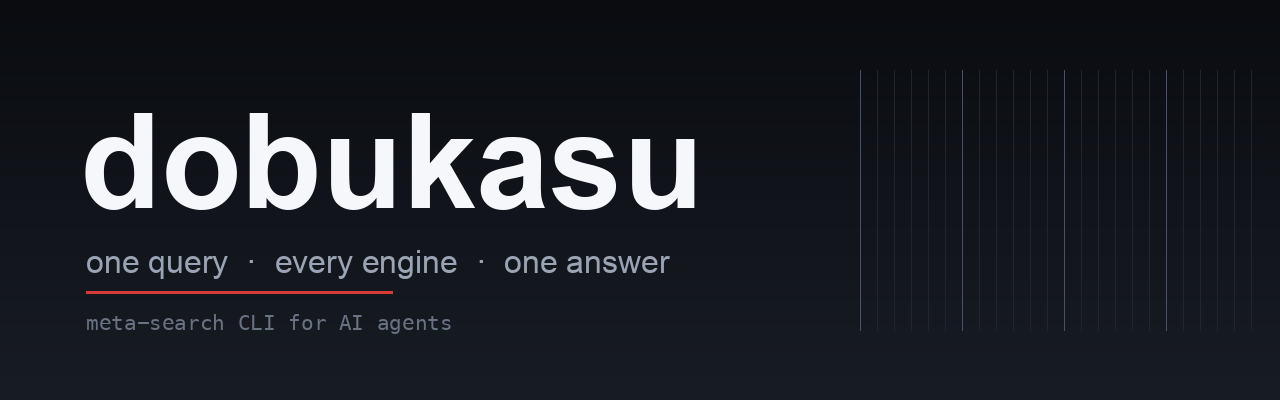
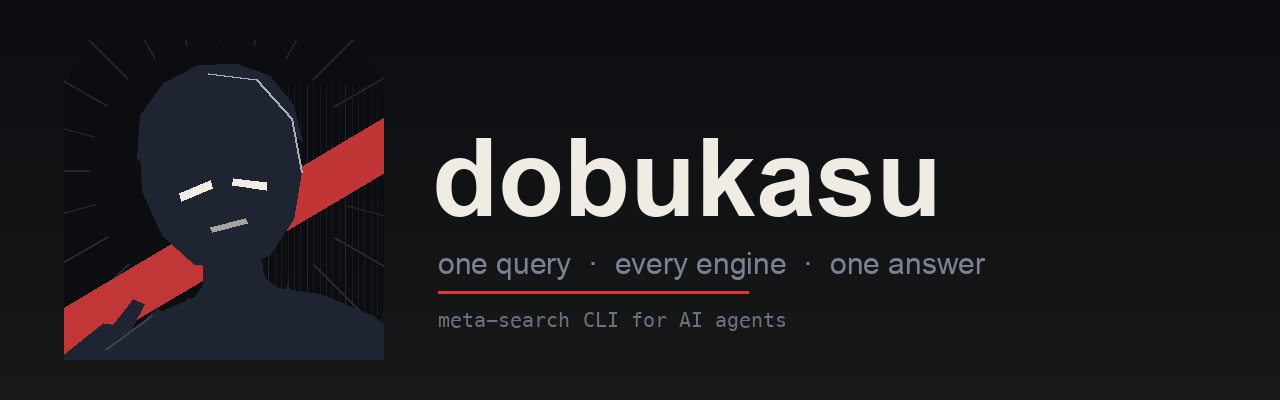
feat(assets): add an original mark and render it from source
The logo is a silhouette looking down, cut by a slash, over a grid of
frames: it borrows the composition (close-up, diagonal, destructive
background) and the mood, not any drawing. Every shape is generated by
assets/render.py, which writes both logo.svg and the PNGs, so the mark
can be adjusted by editing numbers rather than by redrawing art.

diff --git a/assets/render.py b/assets/render.py
@@ -1,0 +1,256 @@
+#!/usr/bin/env python3
+"""Render the dobukasu mark and banner.
+
+One shape description, two outputs: the SVG is the original (sharp at any
+size, diffable in git) and the PNG is what GitHub can show. Run it after
+changing the geometry:
+
+    python3 assets/render.py
+
+The mark is an original silhouette - a figure looking down, cut by a slash,
+over a grid of 24 frames. It borrows an idea, not any drawing: no character
+design, no copied pose, no traced line from someone else's picture.
+"""
+
+from __future__ import annotations
+
+import math
+from pathlib import Path
+
+from PIL import Image, ImageDraw, ImageFont
+
+HERE = Path(__file__).resolve().parent
+
+INK = (11, 13, 17)
+INK_SOFT = (18, 21, 28)
+FIGURE = (30, 36, 50)
+PAPER = (240, 236, 228)
+GREY = (120, 130, 148)
+RED = (216, 58, 58)
+RIM = (86, 96, 116)
+
+SIZE = 512
+
+
+def frame_lines(width: int, height: int, count: int = 24) -> list[tuple[tuple[int, int], tuple[int, int], int, int]]:
+    """The 'one second, twenty-four frames' motif: thin vertical rules."""
+    lines = []
+    span = count - 1
+    for index in range(count):
+        x = int(width * 0.52 + (width * 0.46) * index / span)
+        alpha = 44 if index % 6 == 0 else 15
+        lines.append(((x, int(height * 0.14)), (x, int(height * 0.86)), 1, alpha))
+    return lines
+
+
+def mark_shapes(size: int) -> dict[str, list]:
+    """Geometry of the mark, expressed in a 512 box and scaled by `size`.
+
+    Composition: tight on the face, tilted, a hand pushing into the frame from
+    below, a slash and a radial burst behind. Everything is a silhouette - the
+    eyes and mouth are the only light, and they are holes, not features.
+    """
+    s = size / SIZE
+
+    def p(x: float, y: float) -> tuple[int, int]:
+        # A slight counter-clockwise tilt keeps the face from feeling static.
+        angle = math.radians(-7)
+        cx, cy = 256, 256
+        dx, dy = x - cx, y - cy
+        rx = cx + dx * math.cos(angle) - dy * math.sin(angle)
+        ry = cy + dx * math.sin(angle) + dy * math.cos(angle)
+        return (round(rx * s), round(ry * s))
+
+    slash = [p(-30, 400), p(542, 150), p(542, 232), p(-30, 482)]
+
+    shoulders = [
+        p(-20, 540),
+        p(40, 470),
+        p(120, 424),
+        p(190, 404),
+        p(208, 386),
+        p(304, 386),
+        p(322, 404),
+        p(392, 424),
+        p(472, 470),
+        p(532, 540),
+    ]
+    neck = [p(212, 336), p(300, 336), p(306, 392), p(206, 392)]
+    head = [
+        p(256, 52),
+        p(330, 70),
+        p(378, 138),
+        p(384, 226),
+        p(362, 300),
+        p(316, 352),
+        p(256, 368),
+        p(196, 352),
+        p(150, 300),
+        p(128, 226),
+        p(134, 138),
+        p(182, 70),
+    ]
+    hair = [
+        p(126, 176),
+        p(140, 104),
+        p(182, 58),
+        p(240, 36),
+        p(300, 40),
+        p(352, 66),
+        p(384, 118),
+        p(392, 178),
+        p(352, 140),
+        p(306, 118),
+        p(256, 112),
+        p(206, 120),
+        p(162, 146),
+    ]
+    hand = [
+        p(-30, 470),
+        p(40, 428),
+        p(92, 442),
+        p(118, 476),
+        p(116, 540),
+        p(-30, 540),
+    ]
+    fingers = [
+        [p(46, 442), p(92, 396), p(108, 406), p(76, 452)],
+        [p(76, 452), p(128, 414), p(142, 426), p(102, 466)],
+        [p(100, 472), p(154, 448), p(162, 462), p(118, 490)],
+    ]
+    eyes = [
+        [p(186, 236), p(238, 222), p(240, 234), p(188, 249)],
+        [p(274, 222), p(326, 236), p(324, 249), p(272, 234)],
+    ]
+    mouth = [p(228, 296), p(286, 288), p(288, 297), p(230, 305)]
+
+    burst = []
+    for index in range(24):
+        angle = math.radians(index * 15 + 7)
+        inner, outer = 210, 460
+        burst.append(
+            (
+                p(256 + inner * math.cos(angle), 210 + inner * math.sin(angle)),
+                p(256 + outer * math.cos(angle), 210 + outer * math.sin(angle)),
+            )
+        )
+
+    return {
+        "slash": slash,
+        "burst": burst,
+        "shoulders": shoulders,
+        "neck": neck,
+        "head": head,
+        "hair": hair,
+        "hand": hand,
+        "fingers": fingers,
+        "eyes": eyes,
+        "mouth": mouth,
+    }
+
+
+def draw_mark(size: int, *, background: bool = True, with_slash: bool = True) -> Image.Image:
+    image = Image.new("RGBA", (size, size), (0, 0, 0, 0))
+    layer = Image.new("RGBA", (size, size), (0, 0, 0, 0))
+    draw = ImageDraw.Draw(layer)
+    shapes = mark_shapes(size)
+    s = size / SIZE
+
+    if background:
+        draw.rounded_rectangle([0, 0, size - 1, size - 1], radius=round(96 * s), fill=(*INK, 255))
+
+    for (x1, y1), (x2, y2), width, alpha in frame_lines(size, size):
+        draw.line([(x1, y1), (x2, y2)], fill=(*GREY, alpha), width=max(1, round(width * s)))
+
+    for (x1, y1), (x2, y2) in shapes["burst"]:
+        draw.line([(x1, y1), (x2, y2)], fill=(*GREY, 46), width=max(1, round(3 * s)))
+
+    if with_slash:
+        draw.polygon(shapes["slash"], fill=(*RED, 225))
+
+    body = (*FIGURE, 255)
+    for key in ("shoulders", "neck", "head", "hair", "hand"):
+        draw.polygon(shapes[key], fill=body)
+    for finger in shapes["fingers"]:
+        draw.polygon(finger, fill=body)
+
+    # Rim light on the left contour so the silhouette separates from the ink.
+    draw.line(shapes["head"][:4], fill=(201, 209, 224, 210), width=max(1, round(4 * s)))
+    draw.line(shapes["shoulders"][1:3], fill=(*RIM, 150), width=max(1, round(3 * s)))
+
+    for eye in shapes["eyes"]:
+        draw.polygon(eye, fill=(*PAPER, 255))
+    draw.polygon(shapes["mouth"], fill=(*PAPER, 170))
+
+    return Image.alpha_composite(image, layer)
+
+
+def svg_mark() -> str:
+    shapes = mark_shapes(SIZE)
+    parts = [
+        f'<svg xmlns="http://www.w3.org/2000/svg" viewBox="0 0 {SIZE} {SIZE}" width="{SIZE}" height="{SIZE}" role="img" aria-label="dobukasu mark: a silhouette looking down, cut by a slash, over a grid of frames">',
+        f'  <rect width="{SIZE}" height="{SIZE}" rx="96" fill="#0b0d11"/>',
+    ]
+    for (x1, y1), (x2, y2), _width, alpha in frame_lines(SIZE, SIZE):
+        parts.append(
+            f'  <line x1="{x1}" y1="{y1}" x2="{x2}" y2="{y2}" stroke="#788294" stroke-opacity="{alpha / 255:.2f}"/>'
+        )
+    points = " ".join(f"{x},{y}" for x, y in shapes["slash"])
+    parts.append(f'  <polygon points="{points}" fill="#d83a3a" fill-opacity="0.92"/>')
+    for key in ("shoulders", "neck", "head", "hair", "hand"):
+        points = " ".join(f"{x},{y}" for x, y in shapes[key])
+        parts.append(f'  <polygon points="{points}" fill="#1e2432"/>')
+    for finger in shapes["fingers"]:
+        points = " ".join(f"{x},{y}" for x, y in finger)
+        parts.append(f'  <polygon points="{points}" fill="#1e2432"/>')
+    rim = " ".join(f"{x},{y}" for x, y in shapes["head"][:4])
+    parts.append(f'  <polyline points="{rim}" fill="none" stroke="#8b97ad" stroke-opacity="0.9" stroke-width="3"/>')
+    for eye in shapes["eyes"]:
+        points = " ".join(f"{x},{y}" for x, y in eye)
+        parts.append(f'  <polygon points="{points}" fill="#f0ece4"/>')
+    points = " ".join(f"{x},{y}" for x, y in shapes["mouth"])
+    parts.append(f'  <polygon points="{points}" fill="#f0ece4" fill-opacity="0.66"/>')
+    parts.append("</svg>")
+    return "\n".join(parts) + "\n"
+
+
+def font(path: str, size: int) -> ImageFont.FreeTypeFont:
+    return ImageFont.truetype(path, size)
+
+
+def render_banner() -> Image.Image:
+    width, height = 1280, 400
+    banner = Image.new("RGB", (width, height), INK)
+    draw = ImageDraw.Draw(banner)
+    for y in range(height):
+        t = y / (height - 1)
+        colour = tuple(round(INK[i] + (24 - INK[i]) * t) for i in range(3))
+        draw.line([(0, y), (width, y)], fill=colour)
+
+    mark = draw_mark(320)
+    banner.paste(mark, (64, 40), mark)
+
+    bold = font("/System/Library/Fonts/Supplemental/Arial Bold.ttf", 108)
+    mid = font("/System/Library/Fonts/Supplemental/Arial.ttf", 30)
+    small = font("/System/Library/Fonts/Menlo.ttc", 20)
+
+    draw.text((432, 118), "dobukasu", font=bold, fill=PAPER)
+    draw.text((438, 246), "one query  ·  every engine  ·  one answer", font=mid, fill=GREY)
+    draw.line([(438, 292), (748, 292)], fill=RED, width=3)
+    draw.text((438, 308), "meta-search CLI for AI agents", font=small, fill=(104, 114, 130))
+    return banner
+
+
+def main() -> None:
+    svg = svg_mark()
+    (HERE / "logo.svg").write_text(svg, encoding="utf-8")
+
+    mark = draw_mark(1024)
+    mark.save(HERE / "logo.png", optimize=True)
+
+    render_banner().save(HERE / "banner.png", optimize=True)
+    print("wrote logo.svg, logo.png, banner.png")
+
+
+if __name__ == "__main__":
+    main()
